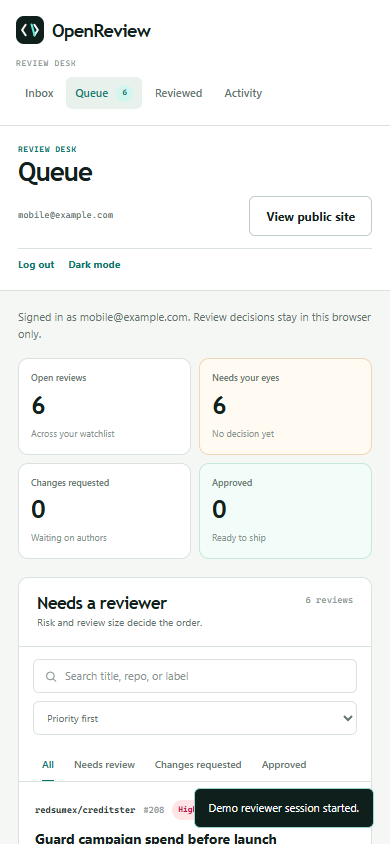
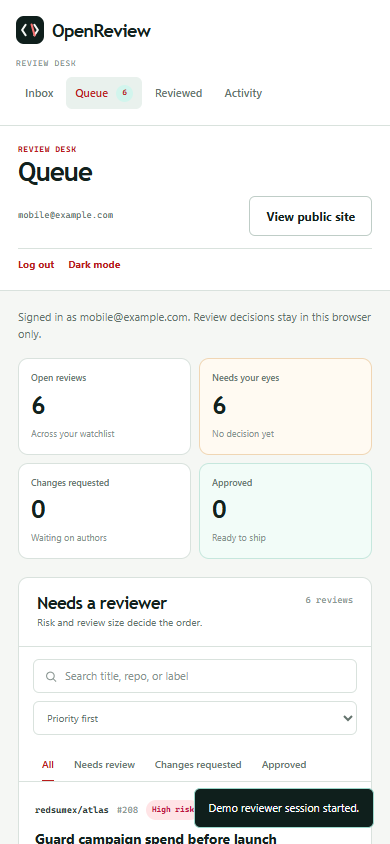
style: switch OpenReview accents to red
Move the brand accent, links, primary actions, and logo slash to red while preserving green for approved and passing states. Remove the retired Creditster name from sample review data.

diff --git a/index.html b/index.html
@@ -16,7 +16,7 @@
           <svg class="brand-mark" viewBox="0 0 32 32" aria-hidden="true">
             <rect width="32" height="32" rx="9" fill="#0f1f1c"/>
             <path d="m11 10-4 6 4 6M21 10l4 6-4 6" fill="none" stroke="#f4f7f5" stroke-width="2.4" stroke-linecap="round" stroke-linejoin="round"/>
-            <path d="m17.8 9.8 3.5 12.4" fill="none" stroke="#5eead4" stroke-width="2.4" stroke-linecap="round"/>
+            <path d="m17.8 9.8 3.5 12.4" fill="none" stroke="#f87171" stroke-width="2.4" stroke-linecap="round"/>
           </svg>
           <span class="brand-name">OpenReview</span>
         </a>
@@ -66,7 +66,7 @@
             <span class="risk-dot"></span>
             <div class="preview-main">
               <strong>Guard campaign spend before launch</strong>
-              <span>redsumex/creditster <b>#208</b></span>
+              <span>redsumex/atlas <b>#208</b></span>
             </div>
             <span class="preview-age">12m</span>
           </div>
@@ -74,7 +74,7 @@
             <span class="risk-dot"></span>
             <div class="preview-main">
               <strong>Make mobile review controls reachable</strong>
-              <span>redsumex/creditster <b>#207</b></span>
+              <span>redsumex/openreview <b>#207</b></span>
             </div>
             <span class="preview-age">38m</span>
           </div>
@@ -184,7 +184,7 @@
           <svg class="brand-mark" viewBox="0 0 32 32" aria-hidden="true">
             <rect width="32" height="32" rx="9" fill="#0f1f1c"/>
             <path d="m11 10-4 6 4 6M21 10l4 6-4 6" fill="none" stroke="#f4f7f5" stroke-width="2.4" stroke-linecap="round" stroke-linejoin="round"/>
-            <path d="m17.8 9.8 3.5 12.4" fill="none" stroke="#5eead4" stroke-width="2.4" stroke-linecap="round"/>
+            <path d="m17.8 9.8 3.5 12.4" fill="none" stroke="#f87171" stroke-width="2.4" stroke-linecap="round"/>
           </svg>
           <span class="brand-name">OpenReview</span>
         </a>
@@ -200,7 +200,7 @@
         <svg class="brand-mark" viewBox="0 0 32 32" aria-hidden="true">
           <rect width="32" height="32" rx="9" fill="#0f1f1c"/>
           <path d="m11 10-4 6 4 6M21 10l4 6-4 6" fill="none" stroke="#f4f7f5" stroke-width="2.4" stroke-linecap="round" stroke-linejoin="round"/>
-          <path d="m17.8 9.8 3.5 12.4" fill="none" stroke="#5eead4" stroke-width="2.4" stroke-linecap="round"/>
+          <path d="m17.8 9.8 3.5 12.4" fill="none" stroke="#f87171" stroke-width="2.4" stroke-linecap="round"/>
         </svg>
         <span>OpenReview</span>
       </a>

diff --git a/styles.css b/styles.css
@@ -11,10 +11,12 @@
   --border-strong: #bfcdc7;
   --dark: #0f1f1c;
   --dark-soft: #18302b;
-  --mint: #5eead4;
-  --green: #0f766e;
-  --green-deep: #0b5e57;
-  --lime: #bef264;
+  --mint: #f87171;
+  --green: #b91c1c;
+  --green-deep: #7f1d1d;
+  --lime: #fecaca;
+  --positive: #0f766e;
+  --positive-soft: #dff7ef;
   --amber: #b45309;
   --amber-soft: #fef3c7;
   --rose: #be123c;
@@ -435,9 +437,9 @@ p {
   align-items: center;
   gap: 5px;
   padding: 4px 7px;
-  border: 1px solid #b7e7dc;
+  border: 1px solid #fecaca;
   border-radius: 99px;
-  background: #edfdf9;
+  background: #fef2f2;
   color: var(--green);
   font-family: var(--font-mono);
   font-size: 8px;
@@ -747,7 +749,7 @@ p {
 }
 
 .text-good {
-  color: var(--green) !important;
+  color: var(--positive) !important;
 }
 
 .evidence-note {
@@ -1318,8 +1320,8 @@ p {
 }
 
 .status-approved {
-  background: #dff7ef;
-  color: var(--green);
+  background: var(--positive-soft);
+  color: var(--positive);
 }
 
 .risk-high {
@@ -1333,8 +1335,8 @@ p {
 }
 
 .risk-low {
-  background: #dff7ef;
-  color: var(--green);
+  background: var(--positive-soft);
+  color: var(--positive);
 }
 
 .review-title {
@@ -1408,11 +1410,11 @@ p {
 }
 
 .checks-passing {
-  color: var(--green);
+  color: var(--positive);
 }
 
 .checks-passing::before {
-  background: var(--green);
+  background: var(--positive);
 }
 
 .checks-failing {

diff --git a/src/data.js b/src/data.js
@@ -1,7 +1,7 @@
 export const reviews = [
   {
     id: 'or-208',
-    repo: 'redsumex/creditster',
+    repo: 'redsumex/atlas',
     number: 208,
     title: 'Guard campaign spend before launch',
     author: 'mira.builds',
@@ -26,7 +26,7 @@ export const reviews = [
   },
   {
     id: 'or-207',
-    repo: 'redsumex/creditster',
+    repo: 'redsumex/openreview',
     number: 207,
     title: 'Make mobile review controls reachable',
     author: 'northstar-labs',
@@ -97,7 +97,7 @@ export const reviews = [
   },
   {
     id: 'or-204',
-    repo: 'redsumex/creditster',
+    repo: 'redsumex/openreview',
     number: 204,
     title: 'Clarify the promotion-credit model',
     author: 'kepler-studio',
@@ -145,8 +145,8 @@ export const reviews = [
 ];
 
 export const activitySeed = [
-  { type: 'approved', actor: 'mira.builds', target: 'creditster#204', time: '8 min ago' },
-  { type: 'changes-requested', actor: 'northstar-labs', target: 'creditster#208', time: '21 min ago' },
+  { type: 'approved', actor: 'mira.builds', target: 'openreview#204', time: '8 min ago' },
+  { type: 'changes-requested', actor: 'northstar-labs', target: 'atlas#208', time: '21 min ago' },
   { type: 'comment', actor: 'sable-lang', target: 'openreview#206', time: '44 min ago' },
 ];
 

diff --git a/test/ui-contract.test.js b/test/ui-contract.test.js
@@ -9,7 +9,7 @@ test('uses the OpenReview mark in the favicon and page', () => {
   const page = read('../index.html');
 
   assert.match(mark, /aria-label="OpenReview mark"/);
-  assert.match(mark, /#5eead4/);
+  assert.match(mark, /#f87171/);
   assert.match(page, /OpenReview - Code review/);
   assert.doesNotMatch(page, /Creditster/);
 });
